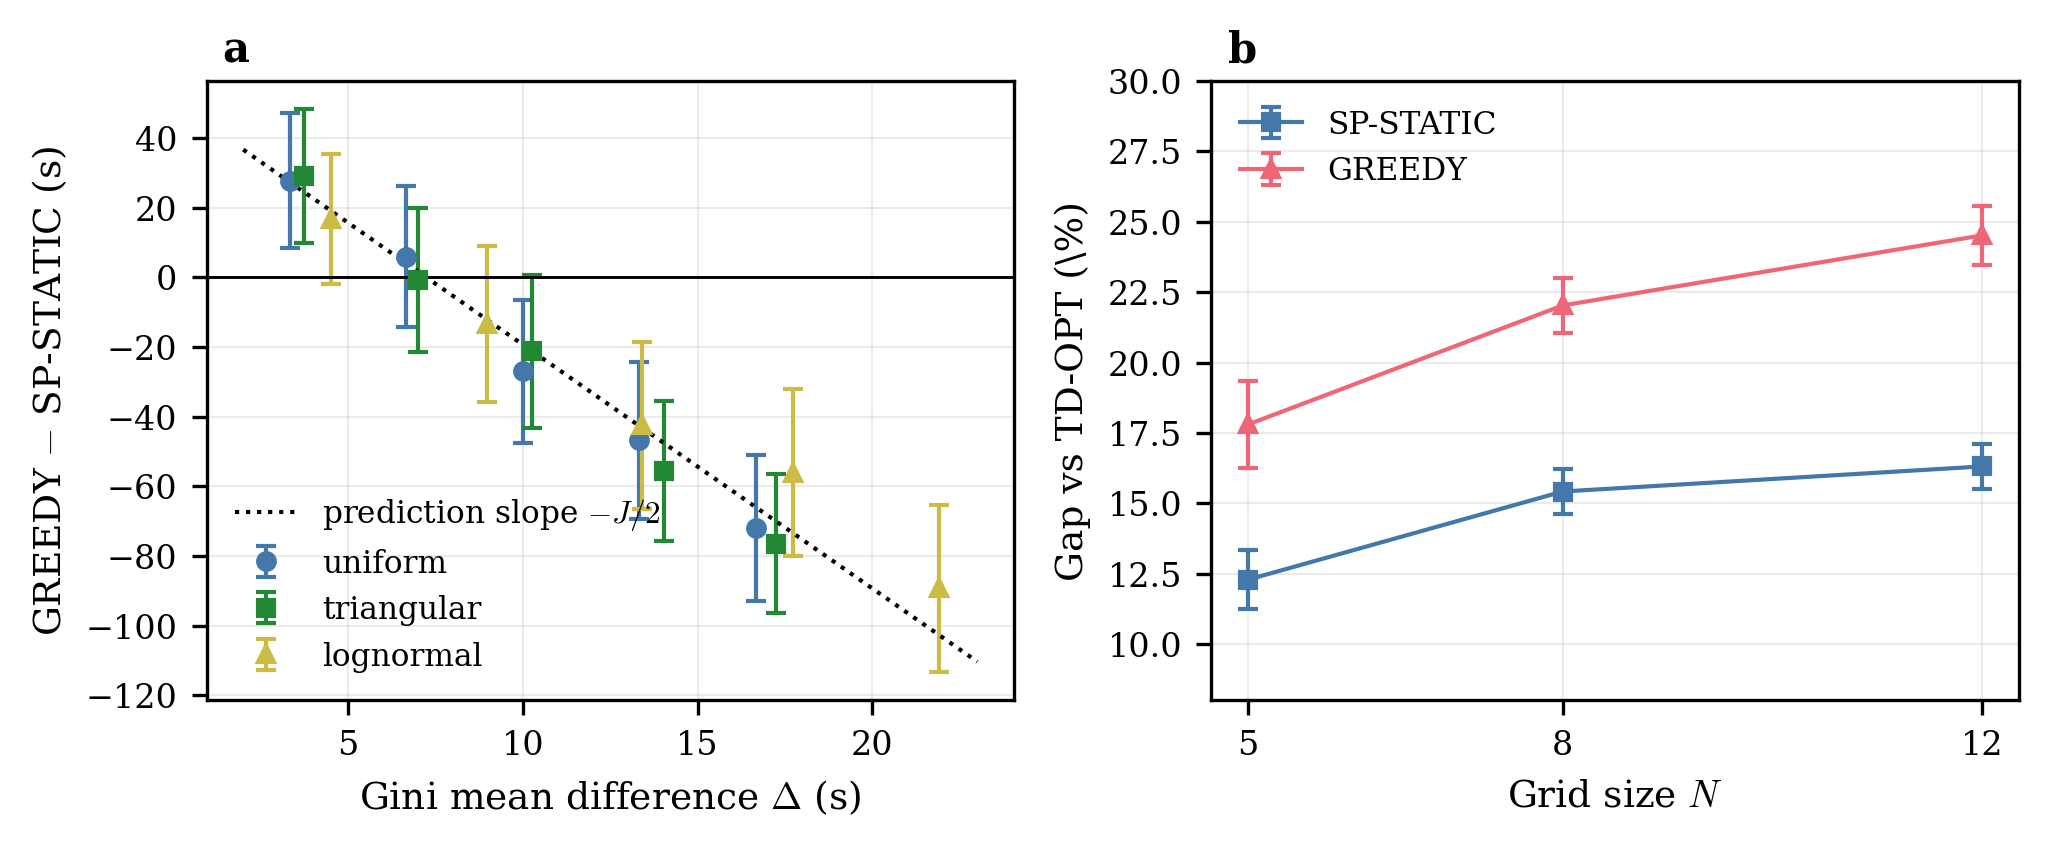
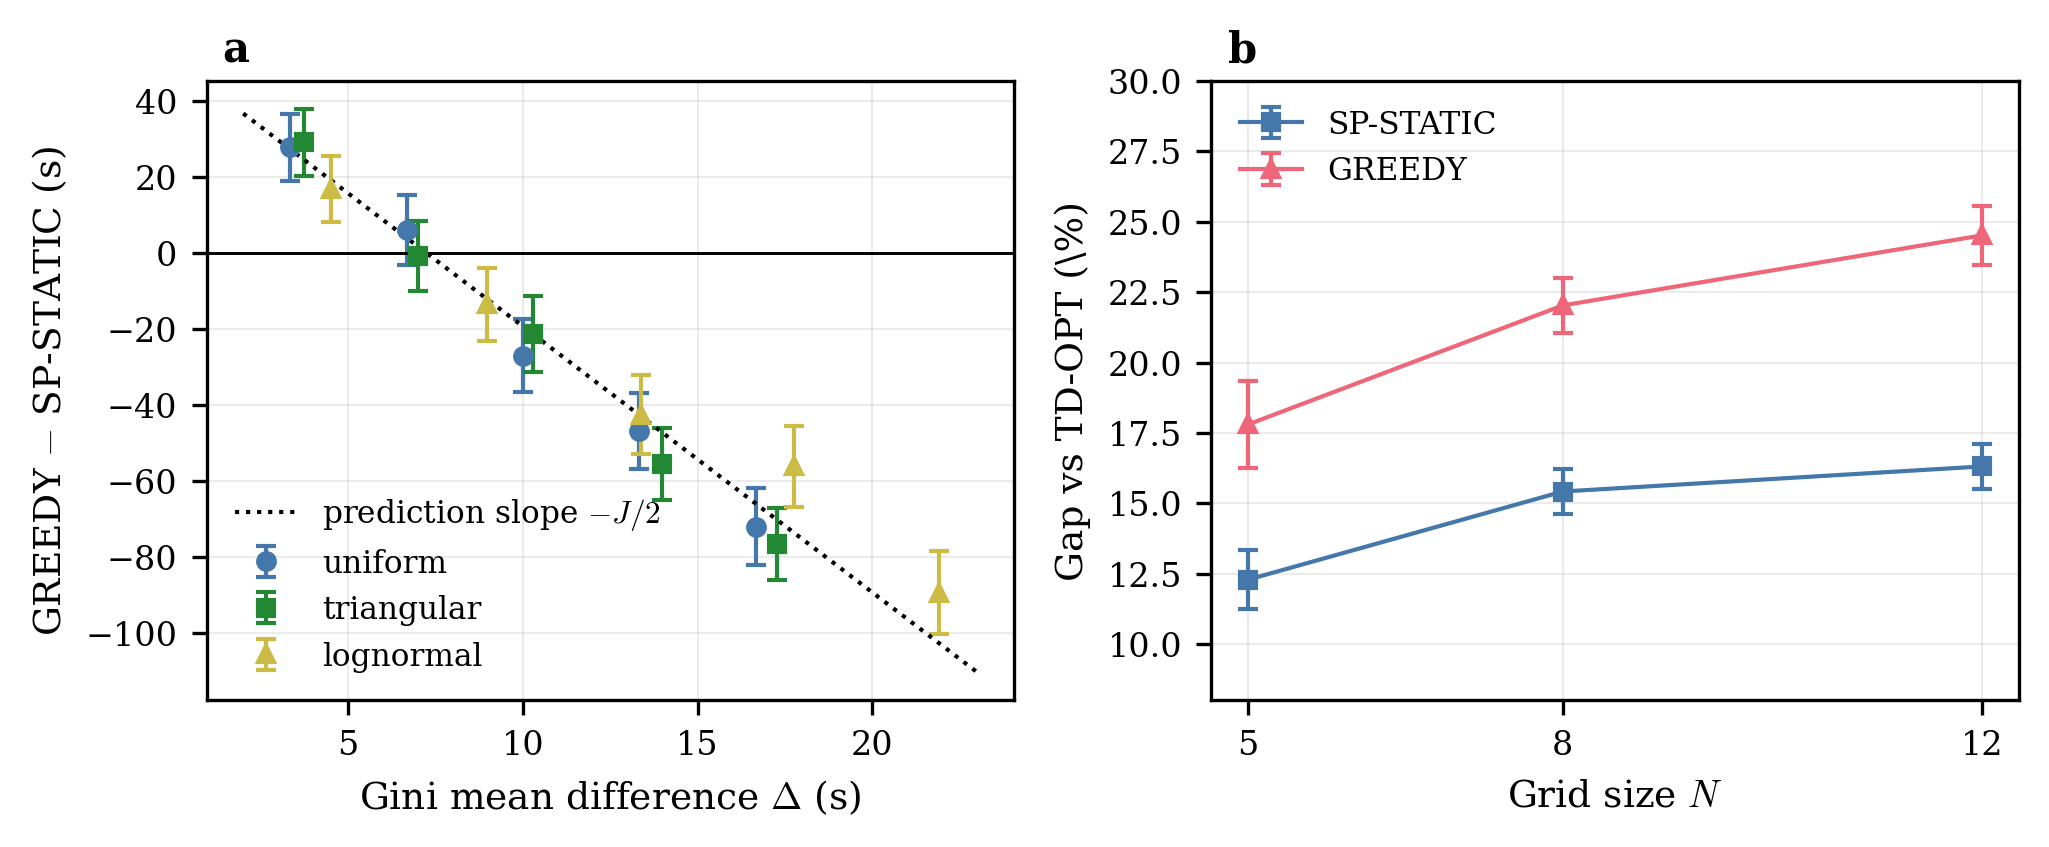
feat: add per-network slope statistics and document the revision scripts
- add pernet_slopes.py: per-network OLS slopes for the uniform h-sweep
  (160 networks) and the Delta-sweep across uniform, triangular, and
  lognormal families (80 networks); writes uniform_slope_pernet.json
  and gini_family_slopes.json
- gini_grid.py: seed the Delta estimator with zlib.crc32 instead of
  hash(), which is randomized per interpreter run and made the results
  irreproducible; regenerate gini_grid_results.csv and fig3_scaling.png
- README.md: document the analysis and verification scripts

diff --git a/pernet_slopes.py b/pernet_slopes.py
@@ -1,0 +1,76 @@
+"""Per-network slope statistics reported in the paper.
+Part A: uniform family, original protocol, 160 networks, slope in half-width h.
+Part B: uniform/triangular/lognormal families, 80 networks, slope in the Gini
+mean difference Delta. Each network contributes one fitted slope; the paper
+reports the mean and 95% CI across networks. Outputs two JSON files."""
+import random, math, json, zlib
+import signal_routing as sr
+
+C, gs, gl, MU = 120.0, 40.0, 20.0, 65.0
+tm = sr.Timing(C=C, gs=gs, gl=gl, straight_first=True, rtor=True)
+N = 8; orig = (N-1, 0); dest = (0, N-1); deps = [k*C/8 for k in range(8)]
+
+def slopes_stats(slopes):
+    n = len(slopes); m = sum(slopes)/n
+    sd = math.sqrt(sum((s-m)**2 for s in slopes)/(n-1))
+    return m, 1.96*sd/math.sqrt(n)
+
+def adv(net):
+    p = sr.static_route(net, tm, orig, dest, use_ewait=True)
+    out = []
+    for t0 in deps:
+        a = sr.evaluate(net, tm, p, t0)["time"]
+        b = sr.evaluate(net, tm, sr.greedy_route(net, tm, orig, dest, t0), t0)["time"]
+        out.append(a-b)
+    return sum(out)/len(out)
+
+# Part A: uniform h-sweep, original protocol
+spreads = [0, 5, 10, 15, 20, 25]; NN_A = 160
+pernet = {i: {} for i in range(NN_A)}
+for h in spreads:
+    for i in range(NN_A):
+        rng = random.Random(1000+i)
+        net = sr.Net(N, rng, C=C, link_lo=MU-h, link_hi=MU+h, offset_mode="random")
+        pernet[i][h] = adv(net)
+mx = sum(spreads)/len(spreads); sxx = sum((x-mx)**2 for x in spreads)
+sl_A = []
+for i in range(NN_A):
+    ys = [pernet[i][h] for h in spreads]; my = sum(ys)/len(ys)
+    sl_A.append(sum((x-mx)*(y-my) for x, y in zip(spreads, ys))/sxx)
+mA, ciA = slopes_stats(sl_A)
+print(f"[A] uniform h-slope: {mA:.3f} +- {ciA:.3f} (95% CI, {NN_A} networks; prediction -14/3 = {-14/3:.3f})")
+json.dump({"uniform_slope_h": mA, "ci": ciA, "n_networks": NN_A}, open("uniform_slope_pernet.json", "w"))
+
+# Part B: three families against Delta
+def lognormal_params(mean, sd):
+    s2 = math.log(1+(sd/mean)**2); return math.log(mean)-s2/2, math.sqrt(s2)
+def make_sampler(fam, par, rng):
+    if fam == "uniform":    return lambda: MU + rng.uniform(-par, par)
+    if fam == "triangular": return lambda: rng.triangular(MU-par, MU+par)
+    m, s = lognormal_params(MU, par); return lambda: max(5.0, rng.lognormvariate(m, s))
+cells = [("uniform", [5,10,15,20,25]), ("triangular", [8,15,22,30,37]), ("lognormal", [4,8,12,16,20])]
+NN_B = 80; out = {}
+for fam, pars in cells:
+    deltas = {}
+    for par in pars:
+        drng = random.Random(zlib.crc32(f"{fam}-{par}".encode()))
+        f = make_sampler(fam, par, drng)
+        deltas[par] = sum(abs(f()-f()) for _ in range(400000))/400000
+    pernet = {i: {} for i in range(NN_B)}
+    for par in pars:
+        for i in range(NN_B):
+            rng = random.Random(1000+i)
+            net = sr.Net(N, rng, C=C, link_lo=MU, link_hi=MU, offset_mode="random")
+            srng = random.Random(1000+i+777)
+            f = make_sampler(fam, par, srng)
+            for k in net.tau: net.tau[k] = f()
+            pernet[i][par] = adv(net)
+    xs = [deltas[p] for p in pars]; fmx = sum(xs)/len(xs); fsxx = sum((x-fmx)**2 for x in xs)
+    sl = []
+    for i in range(NN_B):
+        ys = [pernet[i][p] for p in pars]; fmy = sum(ys)/len(ys)
+        sl.append(sum((x-fmx)*(y-fmy) for x, y in zip(xs, ys))/fsxx)
+    m, ci = slopes_stats(sl)
+    out[fam] = {"slope": m, "ci": ci}
+    print(f"[B] {fam:11s} Delta-slope: {m:.3f} +- {ci:.3f} (95% CI, {NN_B} networks; prediction -7.0)")
+json.dump(out, open("gini_family_slopes.json", "w"))

diff --git a/gini_grid.py b/gini_grid.py
@@ -1,7 +1,7 @@
 """Grid-level test of the Gini law: greedy-vs-static advantage against Delta
 for three link-time families matched in mean (65 s). Prediction: one line,
 slope about -J/2 per unit Delta (J=14 on the 8x8 corner trip)."""
-import random, math
+import random, math, zlib
 import signal_routing as sr
 
 C, gs, gl, MU = 120.0, 40.0, 20.0, 65.0
@@ -43,7 +43,7 @@ print("family        par    Delta    adv(s)   ci")
 rows=[]
 for fam, pars in cells:
     for par in pars:
-        drng = random.Random(hash((fam,par)) % 10**6)
+        drng = random.Random(zlib.crc32(f"{fam}-{par}".encode()))
         Delta = delta_of(fam, par, drng)
         adv=[]
         for i in range(80):

diff --git a/README.md b/README.md
@@ -98,6 +98,14 @@ intervals. All scenario ablations (RTOR off, reversed phase order, synchronized
 and progressive offsets, grid sizes 5 and 12) are switches inside
 `signal_routing.py`.
 
+### Analysis and verification scripts (added with the revision)
+
+- `gini_verify.py` — block-level Monte Carlo check of the general ladder law A = rho(1-rho)r/2 - Delta/2 across uniform, triangular, and lognormal link times (Proposition 3).
+- `gini_grid.py` — full-grid Delta-collapse experiment behind Figure 3(a); writes `gini_grid_results.csv`.
+- `pernet_slopes.py` — the per-network slope statistics reported in the paper (uniform h-slope, 160 networks; family Delta-slopes, 80 networks); writes `uniform_slope_pernet.json` and `gini_family_slopes.json`. Deterministic seeding; two runs give identical output.
+- `p4_diagnostic.py` — instance-level check of the coupled offset-error bound on 1,920 planned-path evaluations (zero violations); writes `p4_diag.json`.
+- `lak_monotonicity.py` — pointwise monotonicity audit of rolling LA-k with the LA-k >= TD-OPT sanity check; the aggregate-vs-pointwise finding in the paper.
+
 ## Results snapshot
 
 Gap to the full-information optimum (TD-OPT), base grid, paired instances:
